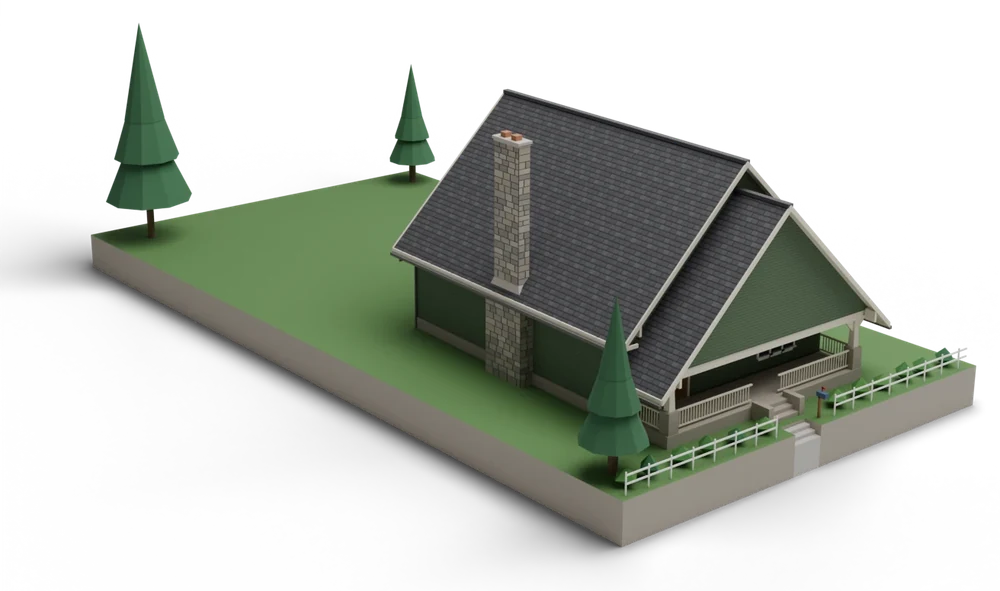
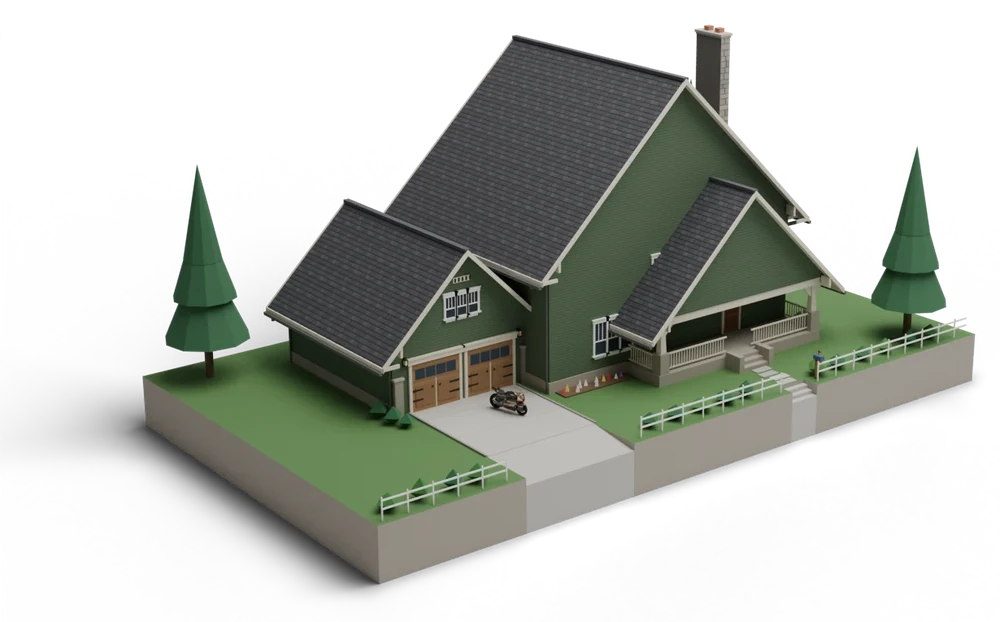
Licence cards: house with garage, main-street commercial building and Patron mansion with helipad, each with its licence vehicles

diff --git a/app/dogcity/dogcity-data.ts b/app/dogcity/dogcity-data.ts
@@ -293,9 +293,9 @@ export const TIERS = [
       "Early access to the game, to every test and every update",
     ],
     building: {
-      src: "/landing/licences/building-personal.webp", w: 1000, h: 591,
+      src: "/landing/licences/building-personal.webp", w: 1000, h: 622,
       kind: "A RESIDENCE", note: "Example from the district catalogue. The style depends on your district.",
-      alt: "Example of a residence from the DogCity district catalogue: a house with a yard on its own lot",
+      alt: "Example of a residence from the DogCity district catalogue: a large green craftsman house with an attached two-car garage, a front porch and a fenced garden, with the $DOG moto parked on the driveway",
     },
     vehicles: [VEHICLE_MOTO],
     cta: "Choose Personal",
@@ -313,9 +313,9 @@ export const TIERS = [
       "Vehicles: the $DOG moto and an orange Cyber $DOG",
     ],
     building: {
-      src: "/landing/licences/building-commercial.webp", w: 1000, h: 698,
-      kind: "MIXED USE: SHOP BELOW, HOME ABOVE", note: "Example from the district catalogue. The style depends on your district.",
-      alt: "Example of a mixed-use building from the DogCity district catalogue: a cream house with a red brick shop on the ground floor, glass shop windows under green striped awnings, a cafe terrace with tables and parasols, and a home above",
+      src: "/landing/licences/building-commercial.webp", w: 1000, h: 692,
+      kind: "COMMERCIAL OR MIXED USE", note: "Example from the district catalogue. The style depends on your district.",
+      alt: "Example of a commercial building from the DogCity district catalogue: a three-storey brick main-street building with shop, office and studio fronts under blue awnings, offices and homes above, a rooftop water tower, and the orange Cyber $DOG and the $DOG moto parked in front",
     },
     vehicles: [
       VEHICLE_MOTO,
@@ -336,9 +336,9 @@ export const TIERS = [
       "Vehicles: the $DOG moto, a black Cyber $DOG (instead of the orange one) and the DOG helicopter",
     ],
     building: {
-      src: "/landing/licences/building-patron.webp", w: 1000, h: 471,
+      src: "/landing/licences/building-patron.webp", w: 1000, h: 619,
       kind: "A CUSTOM MANSION", note: "Designed for you, outside the district catalogue.",
-      alt: "A custom mansion designed for the owner of a Patron licence: a modern estate with flat roofs, glass walls, a pool deck and a guest house",
+      alt: "A custom mansion designed for the owner of a Patron licence: a modern estate with a rooftop helipad and the DOG helicopter on it, glass walls, a pool deck with palms, and the black Cyber $DOG and the $DOG moto at the garage",
     },
     vehicles: [
       VEHICLE_MOTO,
